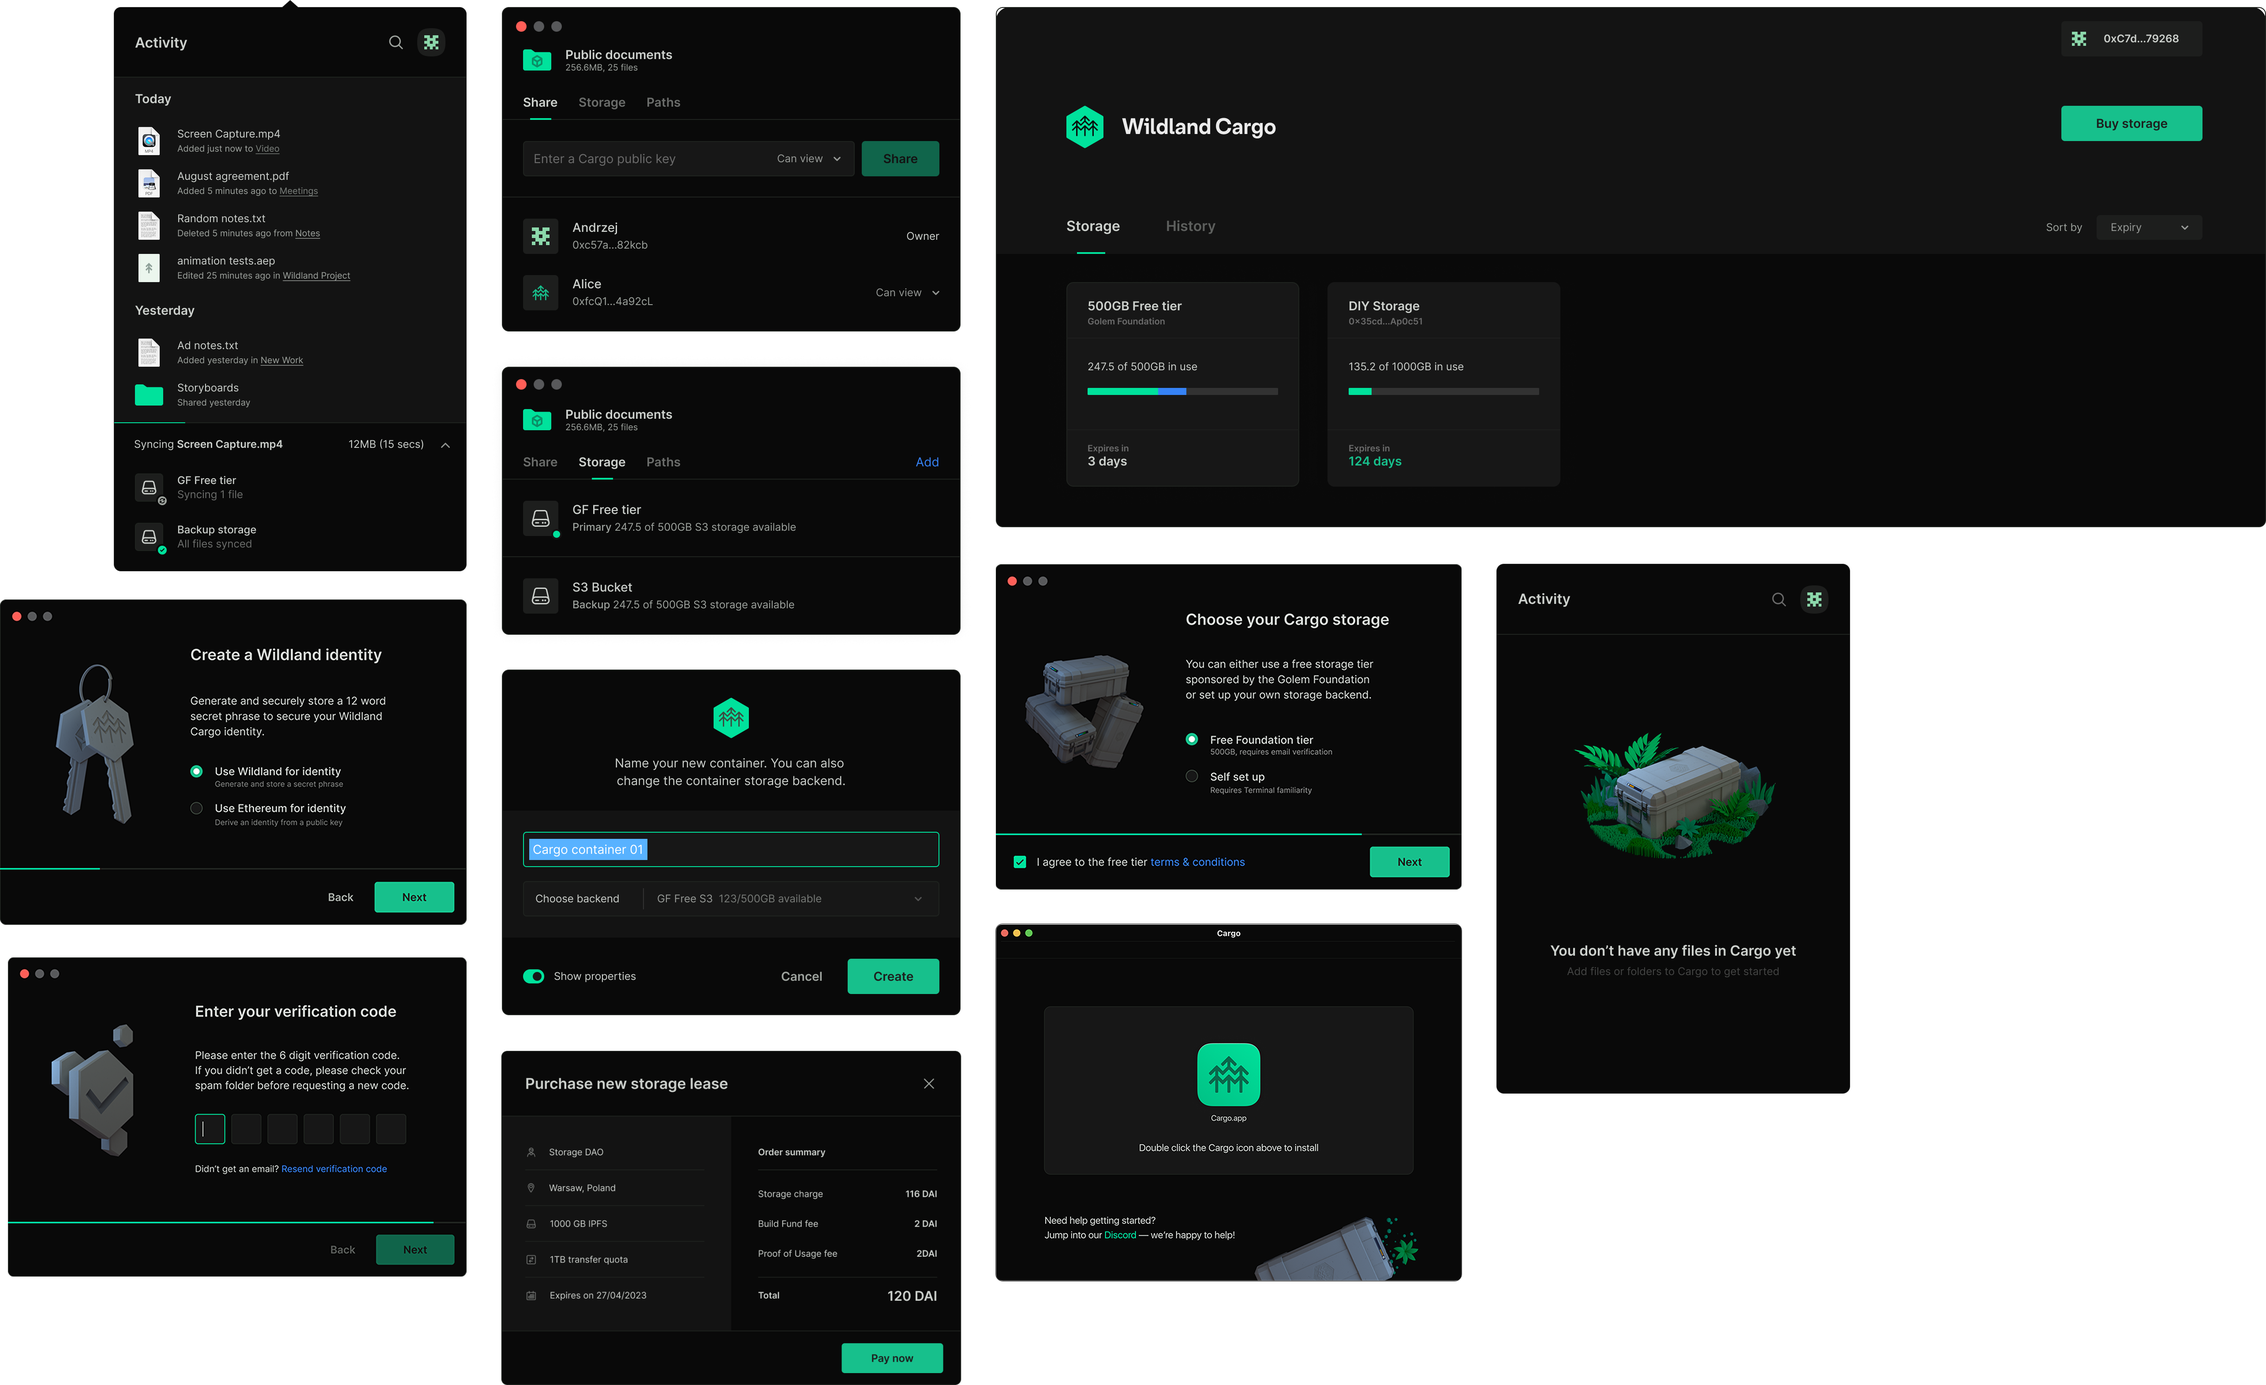
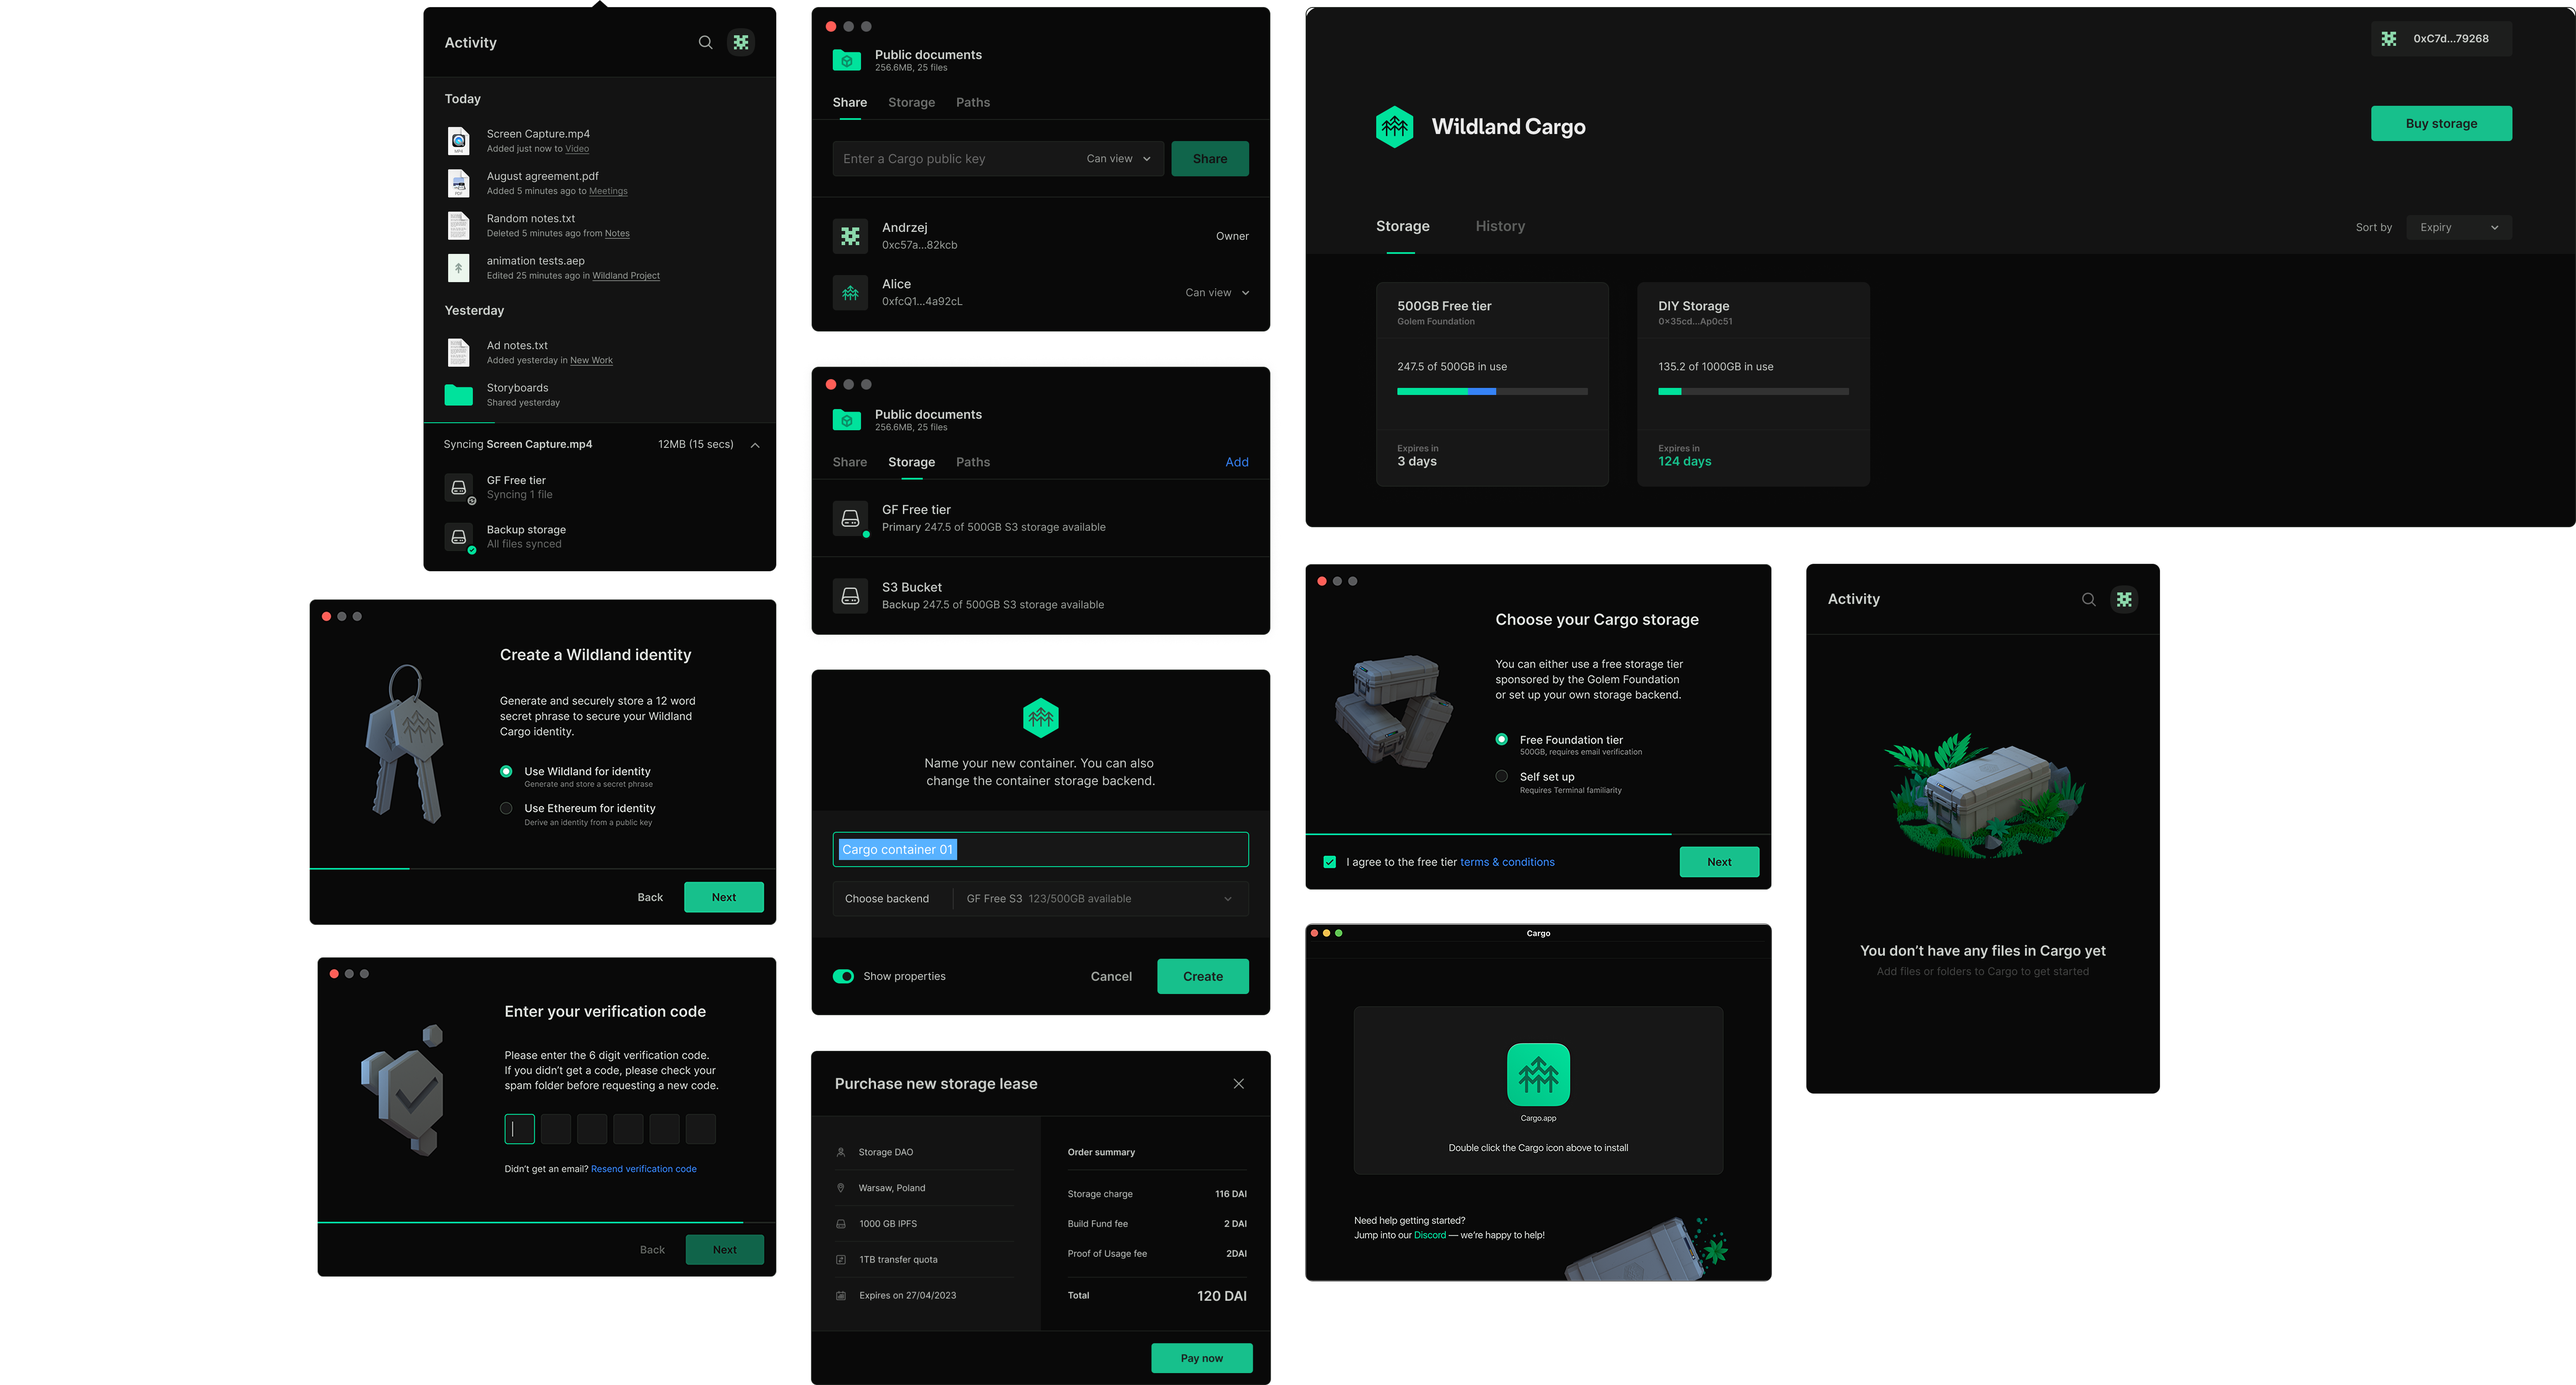
Center the wide module frames

diff --git a/src/components/pages/cargo/Modules.tsx b/src/components/pages/cargo/Modules.tsx
@@ -21,7 +21,7 @@ export function Modules() {
                 src={ModulesImg}
                 srcSet={`${ModulesImg2x} 2x`}
                 alt="Cargo modules"
-                width="2569"
+                width="2920"
                 height="1571"
             />
         </ModulesRoot>
@@ -57,7 +57,7 @@ const WideImg = styled.img`
         position: absolute;
         top: 0;
         transform: translateX(-50%) translateY(2.5rem);
-        width: clamp(80rem, 200vw, 160rem);
+        width: clamp(80rem, 200vw, 182.5rem);
     }
 `
 
@@ -65,6 +65,6 @@ const ModulesRoot = styled.div`
     margin: 0;
 
     @media ${WideImgMq} {
-        height: clamp(50rem, 115vw, 92.75rem);
+        height: clamp(40rem, 101vw, 92.75rem);
     }
 `

diff --git a/src/components/pages/cargo/index.tsx b/src/components/pages/cargo/index.tsx
@@ -114,4 +114,5 @@ const heroCss = css`
 
 const blackCss = css`
     --Section_Background: #000000;
+    --Section_Color: #9ea39e;
 `
